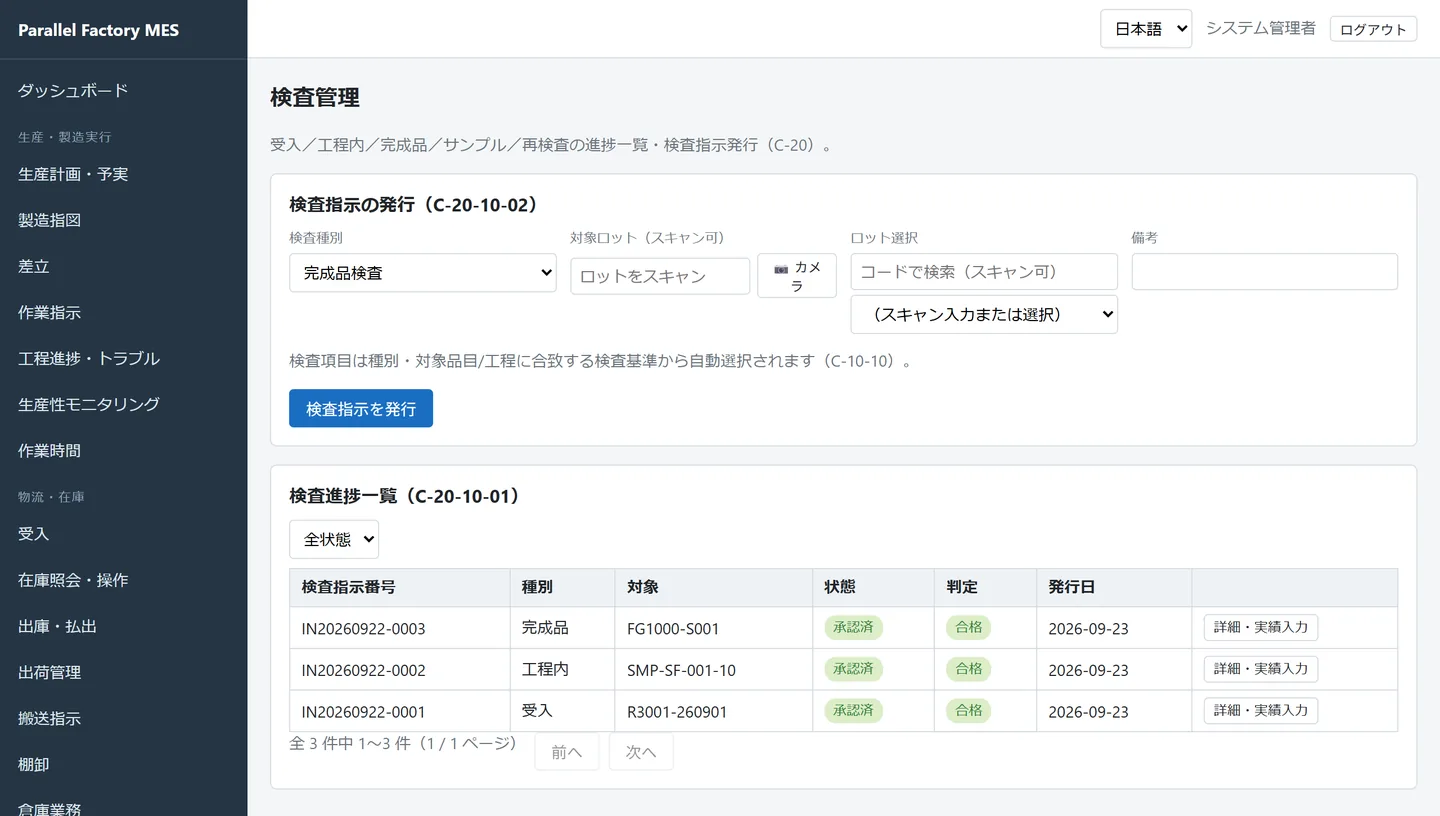
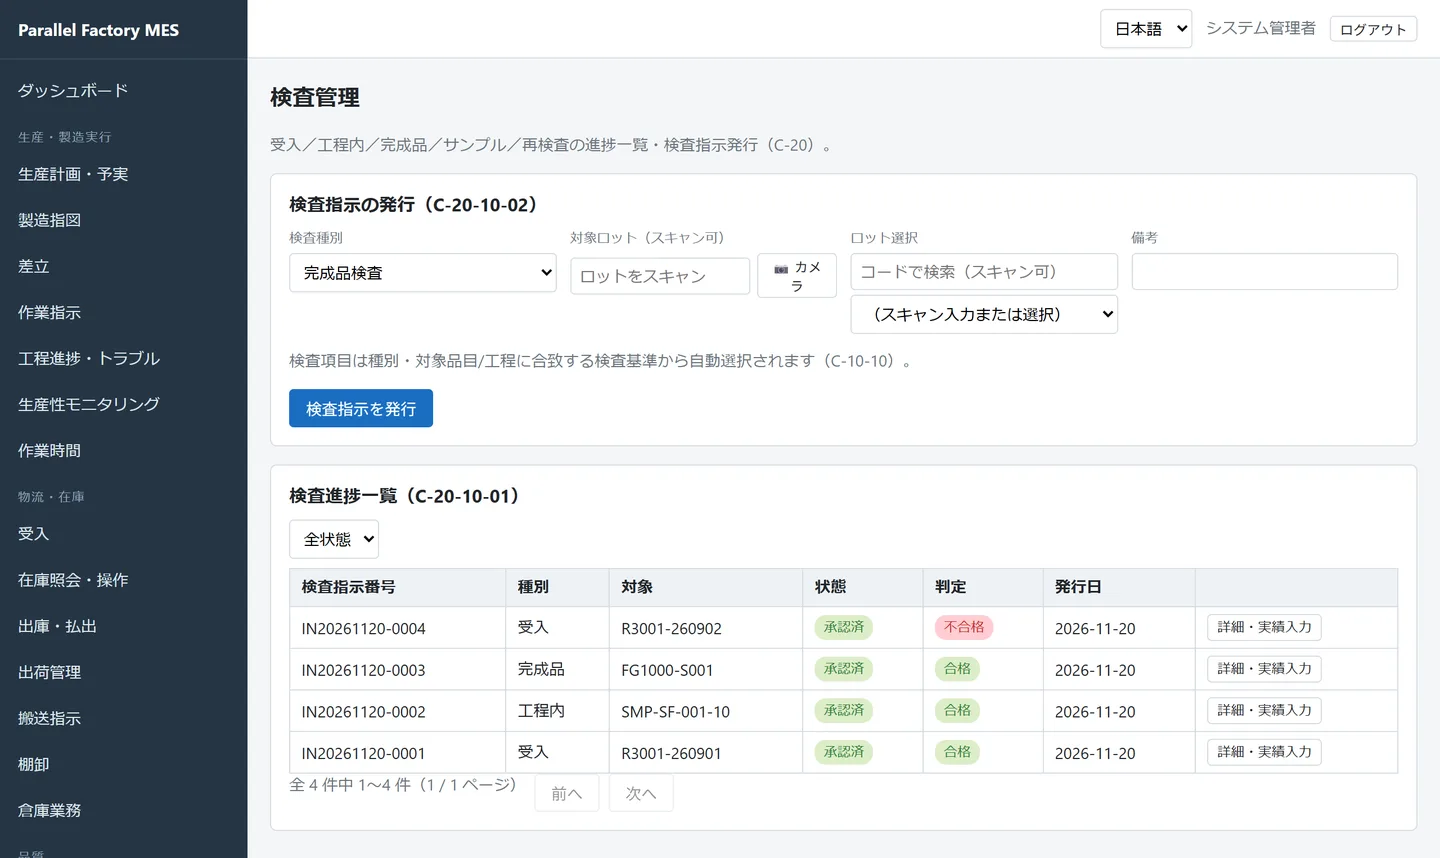
日本語版サンプルの検査管理・実績入力の写真を撮り直す
- 検査管理は3件の古い状態だったので、実際のサンプルどおり4件（追加入荷の受入検査が不合格）で撮り直し、説明と代替テキストを合わせた
- 実績入力は作業手順書の途中で切れていたので、製造条件・状態の履歴まで写る英語版と同じ範囲で撮り直した。日英の代替テキストに製造条件と状態の履歴を足した
- 撮影スクリプトはサンプルの写真でも見出しのフォーカスを外してから撮り、日本語で撮るときの管理者の表示名を「システム管理者」にした

diff --git a/build/Capture-GuideScreens.js b/build/Capture-GuideScreens.js
@@ -81,7 +81,7 @@ function zip(dir, files, dest) {
 async function prepare() {
     const status = await api('GET', '/api/setup/status');
     if (status.data.setupRequired) {
-        await api('POST', '/api/setup/initialize', { userName: USER, password: PASSWORD, displayName: 'Administrator' });
+        await api('POST', '/api/setup/initialize', { userName: USER, password: PASSWORD, displayName: LANG === 'ja' ? 'システム管理者' : 'Administrator' });
         console.log('初期管理者を作りました: ' + USER);
     }
     const login = await api('POST', '/api/auth/login', { userName: USER, password: PASSWORD });
@@ -204,6 +204,8 @@ async function shoot(ws, name) {
         ...[...document.querySelectorAll('main, .content, article')].map(e => e.scrollHeight))`);
     await send(ws, 'Emulation.setDeviceMetricsOverride',
         { width: WIDTH, height: Math.max(HEIGHT, height), deviceScaleFactor: DPR, mobile: false });
+    // 画面遷移で見出しにフォーカスが移り、枠が写るので外す
+    await evalJs(ws, `(document.activeElement && document.activeElement.blur(), true)`);
     await sleep(800);
     await send(ws, 'Page.bringToFront');
     const result = await send(ws, 'Page.captureScreenshot', { format: 'png' });

diff --git a/docs/walkthrough.md b/docs/walkthrough.md
@@ -338,7 +338,7 @@ MBOMと工順の登録方法は、[マスタ管理の品目・MBOM・工順](mas
 | 出来高 | 梱包で良品9・不良1（DR-05）・再作業待ち1 | 最終工程では入庫先（WH-P01）が必須 |
 
 <figure class="shot">
-<img src="assets/walkthrough/record.webp" width="1440" height="866" alt="SMP-FG-001-10 の実績入力画面。登録済みの実績、7件の部材投入（代替理由つきのOリングを含む）、作業手順書が表示されている" loading="lazy">
+<img src="assets/walkthrough/record.webp" width="1440" height="1331" alt="SMP-FG-001-10 の実績入力画面。登録済みの実績、7件の部材投入（代替理由つきのOリングを含む）、作業手順書、製造条件の指示とデータ、状態の履歴が表示されている" loading="lazy">
 <figcaption>実績入力（SMP-FG-001-10 組立）。部材投入の一覧に、代替品の Oリング（耐油）と代替理由が残っている</figcaption>
 </figure>
 
@@ -396,8 +396,8 @@ MBOMと工順の登録方法は、[マスタ管理の品目・MBOM・工順](mas
 </figure>
 
 <figure class="shot">
-<img src="assets/walkthrough/inspections.webp" width="1440" height="816" alt="検査管理画面。受入・工程内・完成品の3件の検査指示が、承認済・合格で並んでいる" loading="lazy">
-<figcaption>検査管理。3件とも合格で、承認まで済んでいる。各行の「詳細・実績入力」から測定値と判定を確認できる</figcaption>
+<img src="assets/walkthrough/inspections.webp" width="1440" height="858" alt="検査管理画面。4件の検査指示がすべて承認済で並び、受入・工程内・完成品の検査は合格、追加入荷 R3001-260902 の受入検査は不合格になっている" loading="lazy">
+<figcaption>検査管理。4件とも承認まで済んでいる。図7の3件は合格、追加入荷 R3001-260902 の受入検査は不合格（そのロットは「不良」になる）。各行の「詳細・実績入力」から測定値と判定を確認できる</figcaption>
 </figure>
 
 - 工程内検査は **作業指示**（SMP-SF-001-10）を、受入・完成品検査は **ロット** を対象にします。

diff --git a/docs/en/walkthrough.md b/docs/en/walkthrough.md
@@ -339,7 +339,7 @@ The following are recorded for one work order. All of them are entered on the **
 | Output | At packing, good 9, defective 1 (DR-05), awaiting rework 1 | In the final process, the put-away location (WH-P01) is required |
 
 <figure class="shot">
-<img src="../assets/en/walkthrough/record.webp" width="1440" height="1287" alt="The result entry screen of SMP-FG-001-10. It shows the registered result, 7 material consumption records (including the O-ring with a substitution reason) and the work procedure" loading="lazy">
+<img src="../assets/en/walkthrough/record.webp" width="1440" height="1287" alt="The result entry screen of SMP-FG-001-10. It shows the registered result, 7 material consumption records (including the O-ring with a substitution reason) the work procedure, the instructed process conditions, the process condition data and the status history" loading="lazy">
 <figcaption>Recording results (SMP-FG-001-10, assembly). The list of material consumption keeps the alternate oil-resistant O-ring and its substitution reason</figcaption>
 </figure>
 
